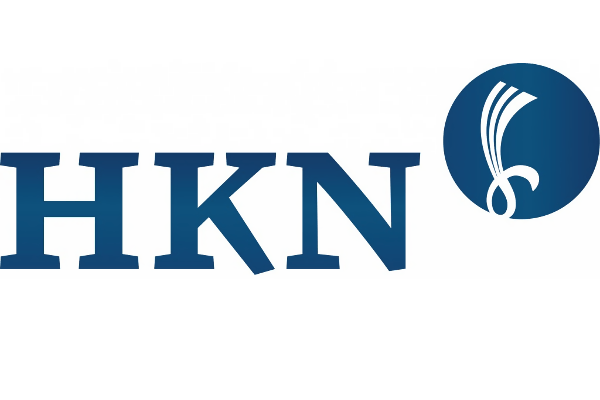
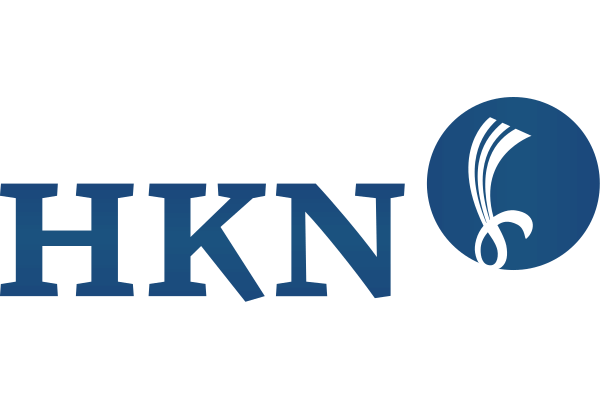
add HKN to partnership roster

Changed region(s): [[0.0, 0.15, 1.0, 0.75]]

diff --git a/page-partners.php b/page-partners.php
@@ -88,14 +88,20 @@
 				<p  class="partnertext">In a world where business depends on ICT, 360 ICT delivers garantees in the form of hard SLA's while remaining as approachable as a local ICT company for small and medium businesses. Our strength: solid, solution-focused and personal.</p>
 			</div>
 			<div class="col-md-4">
+				<a href="https://www.hkn.de/nextcloud-cloud-speicher" target="_blank" title="HKN">
+				<img class="img-responsive" src="<?php bloginfo('template_directory'); ?>/assets/img/partners/hkn.png" title="hkn" />
+				</a>
+				<p  class="partnertext">Started in 1996 and now a team of 10 strong, HKN has been betting on scaleable, open source clusters since its inception. HKN offers bigger organizations a scaleable, HA-capable, resilient platform with Nextcloud that is hosted in their own data centers in three German cities. HKN offers optional 'hybrid' cloud solutions, with an internally, on-premises hosted Nextcloud at the customer working seamlessly with a Nextcloud hosted by HKN.</p>
+			</div>
+		</div>
+
+		<div class="row">
+			<div class="col-md-4">
 				<a href="https://www.it25.de/" target="_blank" title="IT25">
 				<img class="img-responsive" src="<?php bloginfo('template_directory'); ?>/assets/img/partners/it25.png" title="it25" />
 				</a>
 				<p  class="partnertext">Founded in 2006 IT25 GmbH provides solutions for collaboration and exchange of information with a strong focus on supporting customers to install, integrate and safely operate on-premises and cloud based systems.</p>
 			</div>
-		</div>
-
-		<div class="row">
 			<div class="col-md-4">
 				<a href="http://www.netcloud.ch/" target="_blank" title="Netcloud AG">
 				<img class="img-responsive" src="<?php bloginfo('template_directory'); ?>/assets/img/partners/netcloud.png" title="netcloud logo" />
@@ -108,15 +114,15 @@
 				</a>
 				<p  class="partnertext">NOBUGS IT GmbH provides IT cloud msp/bsp solutions for small and big businesses in Austria. We are currently located in Terfens, Austria, serving customers all over Tyrol and bordering states. As service providers we believe that managed services are the future. As such, we try to improve a customer’s workflow through approved hard- and software solutions and to preemptively act on system failures to facilitate scalability.</p>
 			</div>
+		</div>
+
+		<div class="row">
 			<div class="col-md-4">
 				<a href="http://www.nobugs.gmbh/" target="_blank" title="NOBUGS IT GMBH">
 				<img class="img-responsive" src="<?php bloginfo('template_directory'); ?>/assets/img/partners/nobugs.png" title="nobugs logo" />
 				</a>
 				<p  class="partnertext">NOBUGS IT GmbH provides IT cloud msp/bsp solutions for small and big businesses in Austria. We are currently located in Terfens, Austria, serving customers all over Tyrol and bordering states. As service providers we believe that managed services are the future. As such, we try to improve a customer’s workflow through approved hard- and software solutions and to preemptively act on system failures to facilitate scalability.</p>
 			</div>
-		</div>
-
-		<div class="row">
 			<div class="col-md-4">
 				<a href="https://www.omnis-systems.com/en/nextcloud/general-information" target="_blank" title="Omnis Systems">
 				<img class="img-responsive" src="<?php bloginfo('template_directory'); ?>/assets/img/partners/omnis.png" title="Omnis Systems" />
@@ -129,15 +135,15 @@
 				</a>
 				<p  class="partnertext">Open-DSI is a French company which supports organizations and companies with their computing projects. Our specialty is the implementation of open source cloud computing solutions and outsourcing. Our solutions are based on three main building blocks: Nextcloud, ERP+CRM Dolibarr and WooCommerce.</p>
 			</div>
+		</div>
+
+		<div class="row">
             <div class="col-md-4">
 				<a href="http://www.regioit.de/" target="_blank" title="Regioit">
 				<img class="img-responsive" src="<?php bloginfo('template_directory'); ?>/assets/img/partners/regioit.png" title="regioit logo" />
 				</a>
 				<p  class="partnertext">regio iT is a service provider with over 300 employees delivering solutions for communities, schools, non-profits as well as customers in the energy production and distribution space.</p>
 			</div>
-		</div>
-
-		<div class="row">
 			<div class="col-md-4">
 				<a href="https://www.sendin.nl/nextcloud/" target="_blank" title="Sendin">
 				<img class="img-responsive" src="<?php bloginfo('template_directory'); ?>/assets/img/partners/sendin.png" title="sendin logo" />
@@ -150,6 +156,9 @@
 				</a>
 				<p  class="partnertext">Since 2013, Stylez has grown by focusing on integration and Business Process Outsourcing. Today Stylez expands its scope into cloud and open source services, keeping up their focus on customers and quality.</p>
 			</div>
+		</div>
+
+        <div class="row">
 			<div class="col-md-4">
 				<a href="http://sndkcorp.com/" target="_blank" title="SNDK-corp">
 				<img class="img-responsive" src="<?php bloginfo('template_directory'); ?>/assets/img/partners/sndk-corp.png" title="SNDK Corp logo" />
@@ -157,9 +166,6 @@
 				<p  class="partnertext">SNDK Corp founded in 2007 is an IT company Offering 360 degree Integrated Solutions taking Business to next level.<br>
 				Our Services and deep industry experiences includes Cloud, Virtualization, Open Source Linux & Network Solutions, Security, Software-Mobile APP & IoT.</p>
 			</div>
-		</div>
-
-        <div class="row">
             <div class="col-md-4">
                 <a href="https://www.teebase.eu" target="_blank" title="Teebase Ltd">
                 <img class="img-responsive" src="<?php bloginfo('template_directory'); ?>/assets/img/partners/teebase.png" title="Teebase logo" />
@@ -172,6 +178,9 @@
                 </a>
                 <p  class="partnertext">Zero Trust is a french company offering IT consulting, security audits and security solutions integration. We provide Nextcloud  for our customers in order to improve their data protection and compliance with RGDP and other regulations.</p>
             </div>
+		</div>
+
+        <div class="row">
 <!--			<div class="col-md-4">
 				<a href="https://www.cyber-guardians.net" target="_blank" title="Cyber Guardians">
 				<img class="img-responsive" src="<?php bloginfo('template_directory'); ?>/assets/img/partners/cyberguardians.png" title="Cyber Guardians logo" />
